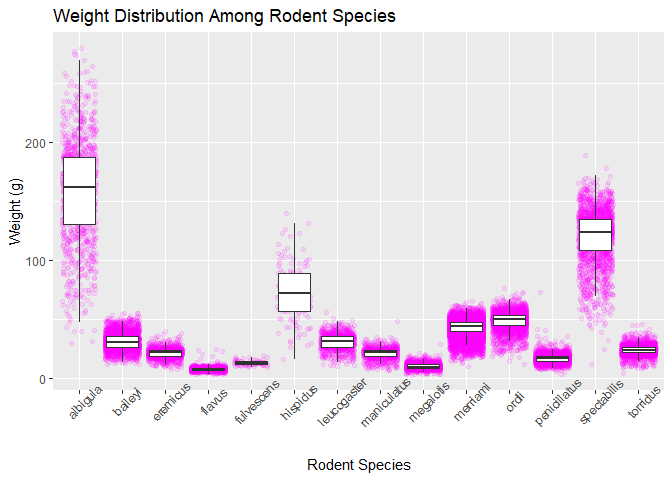
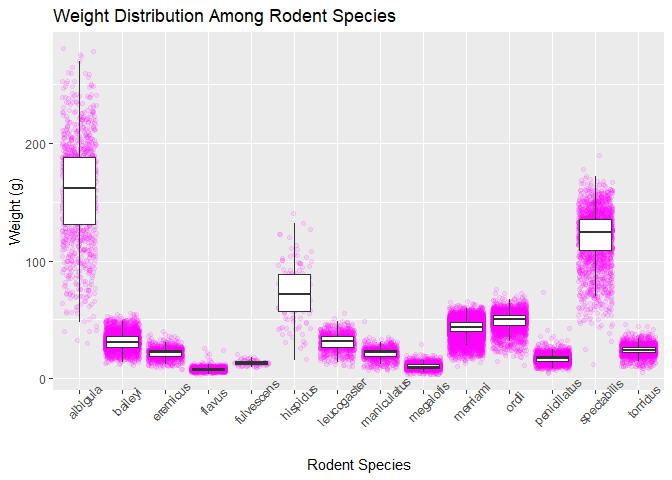
updated lab 3

diff --git a/lab-3-student.md b/lab-3-student.md
@@ -62,21 +62,6 @@ In the code chunk below, load in the packages necessary for your
 analysis. You should only need the `tidyverse` package for this
 analysis.
 
-``` r
-library(tidyverse)
-```
-
-    ── Attaching core tidyverse packages ──────────────────────── tidyverse 2.0.0 ──
-    ✔ dplyr     1.1.4     ✔ readr     2.1.5
-    ✔ forcats   1.0.0     ✔ stringr   1.5.1
-    ✔ ggplot2   4.0.0     ✔ tibble    3.3.0
-    ✔ lubridate 1.9.4     ✔ tidyr     1.3.1
-    ✔ purrr     1.0.4     
-    ── Conflicts ────────────────────────────────────────── tidyverse_conflicts() ──
-    ✖ dplyr::filter() masks stats::filter()
-    ✖ dplyr::lag()    masks stats::lag()
-    ℹ Use the conflicted package (<http://conflicted.r-lib.org/>) to force all conflicts to become errors
-
 # Part 2: Data Context
 
 The Portal Project is a long-term ecological study being conducted near
@@ -155,8 +140,8 @@ Let’s get started!
 
 ``` r
 ggplot(surveys) +
-  geom_point(aes(x= weight, y= hindfoot_length, alpha = 0.5))+
-  facet_wrap(~ species, ncol = 5 )+
+  geom_point(aes(x= weight, y= hindfoot_length),  alpha = 0.5) +
+  facet_wrap(~ species, ncol = 5 ) +
   labs(title = "Weight vs Hindfoot Length",
        subtitle = "Y-axis: Hindfoot Length (mm)",
        x= "Weight (g)",
@@ -207,15 +192,14 @@ into the subtitle.**
 # 13. remove outliers
 # 14. add and adjust labels
 
-ggplot(surveys)+
-  geom_jitter(aes(x = species, y = weight),
-            color = "magenta",
-            alpha = 0.1)+
-  geom_boxplot(aes(x = species, y = weight), 
-               outliers = FALSE)+
+surveys |>
+ggplot(aes(x = species, y = weight)) +
+  geom_jitter(color = "magenta",
+              alpha = 0.1) +
+  geom_boxplot(outliers = FALSE) +
   labs(title = "Weight Distribution Among Rodent Species",
        x = "Rodent Species",
-       y = "Weight (g)")+
+       y = "Weight (g)") +
     theme(axis.text.x = element_text(angle = 45))
 ```
 
@@ -288,12 +272,11 @@ vertically stacked boxplots, you should now stack your boxplots
 horizontally!**
 
 ``` r
-ggplot(surveys)+
-  geom_jitter(aes(y = species, x = weight),
-            color = "magenta",
-            alpha = 0.1)+
-  geom_boxplot(aes(y = species, x = weight), 
-               outliers = FALSE)+
+surveys |>
+ggplot(aes(x = species, y = weight)) +
+  geom_jitter(color = "magenta",
+              alpha = 0.1) +
+  geom_boxplot(outliers = FALSE) +
   labs(title = "Weight Distribution Among Rodent Species",
        x = "Rodent Species",
        y = "Weight (g)")